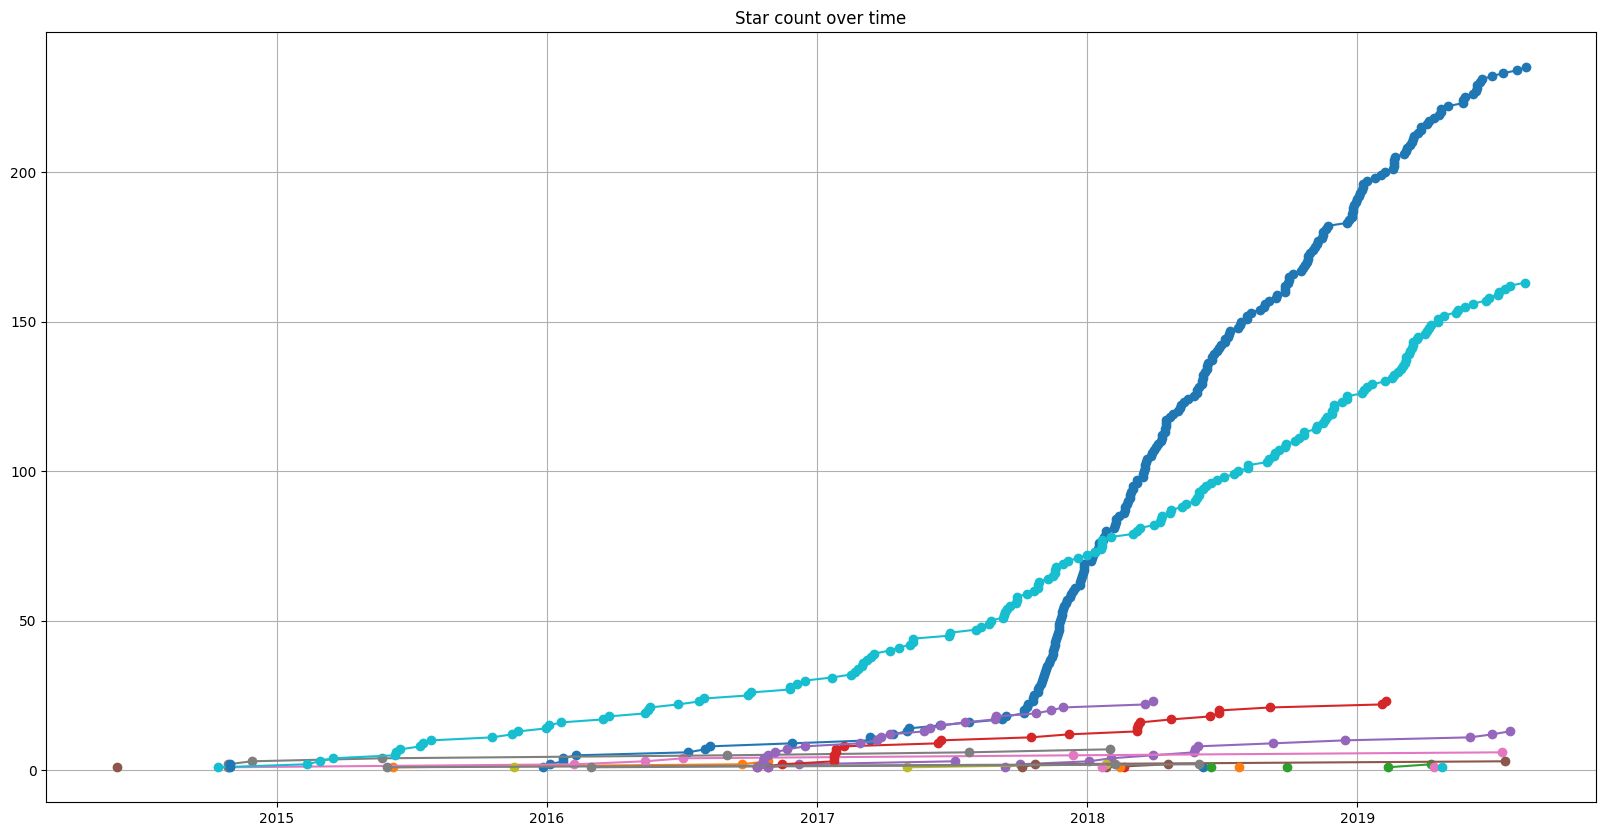
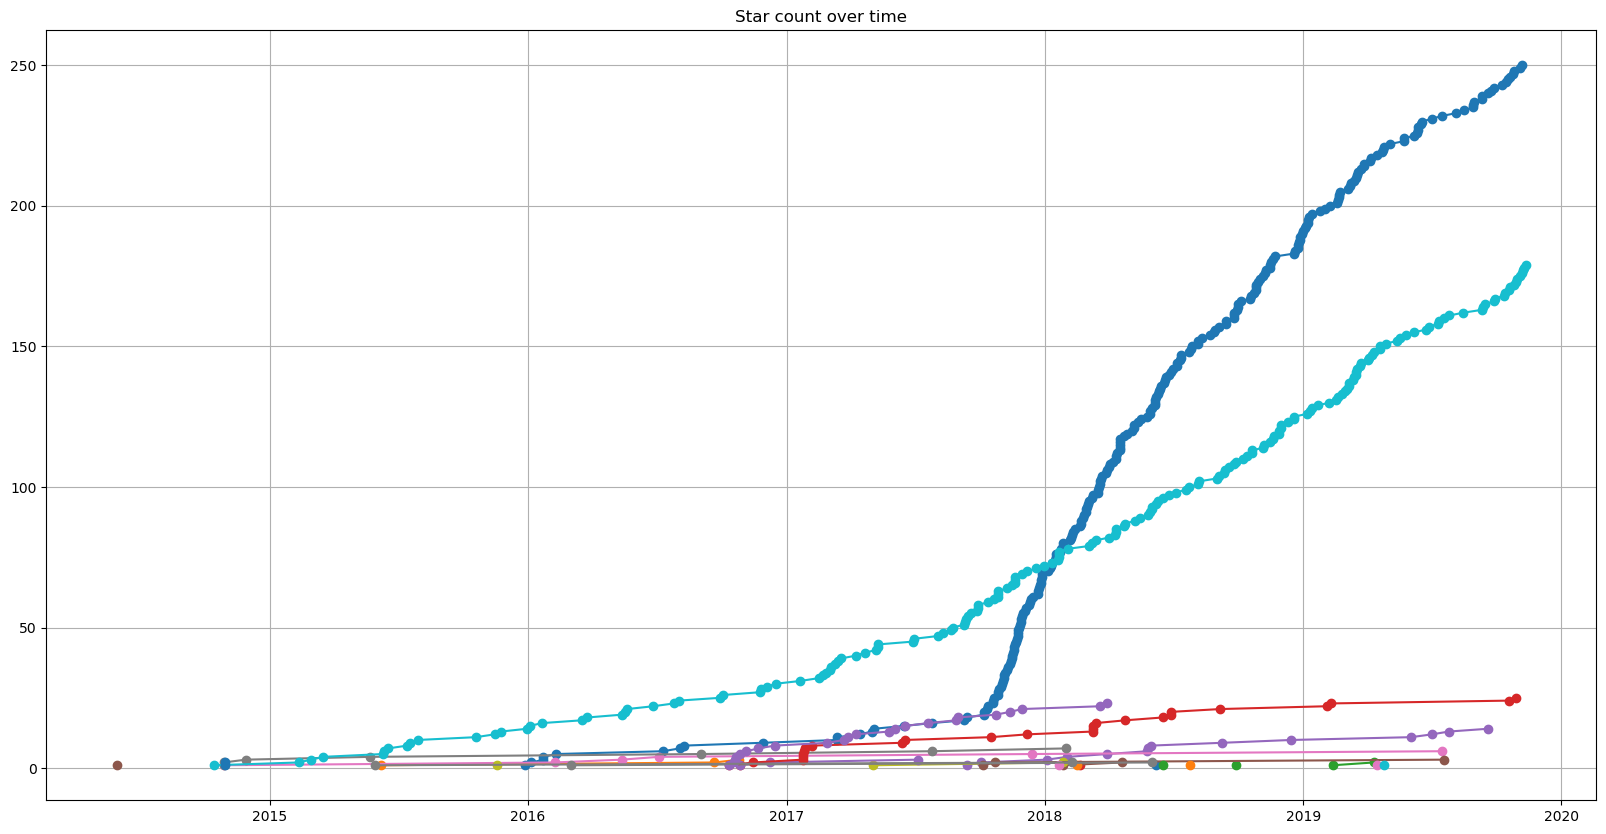
update

diff --git a/README.md b/README.md
@@ -3,7 +3,7 @@
 
 ![star plot](https://raw.github.com/FabriceSalvaire/github-map/master/star-plots/all.png)
 
-Overall stars: 503 :star:
+Overall stars: 537 :star:
 
 ## Python Packages
 
@@ -45,17 +45,17 @@ Overall stars: 503 :star:
 
 ## Python Tools for Developers
 
-* [CodeReview](https://github.com/FabriceSalvaire/CodeReview) 235 :star:</br>
+* [CodeReview](https://github.com/FabriceSalvaire/CodeReview) 250 :star:</br>
 
    CodeReview is a Git GUI tool to perform code review (Diff Viewer) written in Python3 and Qt5.
 
-   Updated on 2019-08-16
+   Updated on 2019-11-08
 
 * [github-map](https://github.com/FabriceSalvaire/github-map)
 
    A summary of my projects on Github (using API and Python)
 
-   Updated on 2019-07-18
+   Updated on 2019-08-19
 
 * [python-memo](https://github.com/FabriceSalvaire/python-memo)
 
@@ -181,11 +181,11 @@ Overall stars: 503 :star:
 
 ## Python for Electronic
 
-* [PySpice](https://github.com/FabriceSalvaire/PySpice) 163 :star:</br>
+* [PySpice](https://github.com/FabriceSalvaire/PySpice) 179 :star:</br>
 
    Simulate electronic circuit using Python and the Ngspice / Xyce simulators
 
-   Updated on 2019-08-15
+   Updated on 2019-11-11
 
 * [PyCpuSimulator](https://github.com/FabriceSalvaire/PyCpuSimulator) 2 :star:</br>
 
@@ -235,11 +235,11 @@ Overall stars: 503 :star:
 
 ## Python for Pattern Drafting
 
-* [Patro](https://github.com/FabriceSalvaire/Patro) 13 :star:</br>
+* [Patro](https://github.com/FabriceSalvaire/Patro) 14 :star:</br>
 
    A Python library to make patterns for fashion design
 
-   Updated on 2019-07-25
+   Updated on 2019-09-19
 
 * [Patro-data](https://github.com/FabriceSalvaire/Patro-data)
 
@@ -351,11 +351,11 @@ Overall stars: 503 :star:
 
 ## Qt
 
-* [qt5-vector-graphic-shaders](https://github.com/FabriceSalvaire/qt5-vector-graphic-shaders) 23 :star:</br>
+* [qt5-vector-graphic-shaders](https://github.com/FabriceSalvaire/qt5-vector-graphic-shaders) 25 :star:</br>
 
    A Qt5 application to experiment vector graphic shaders
 
-   Updated on 2019-05-13
+   Updated on 2019-10-29
 
 ## MuPDF
 
